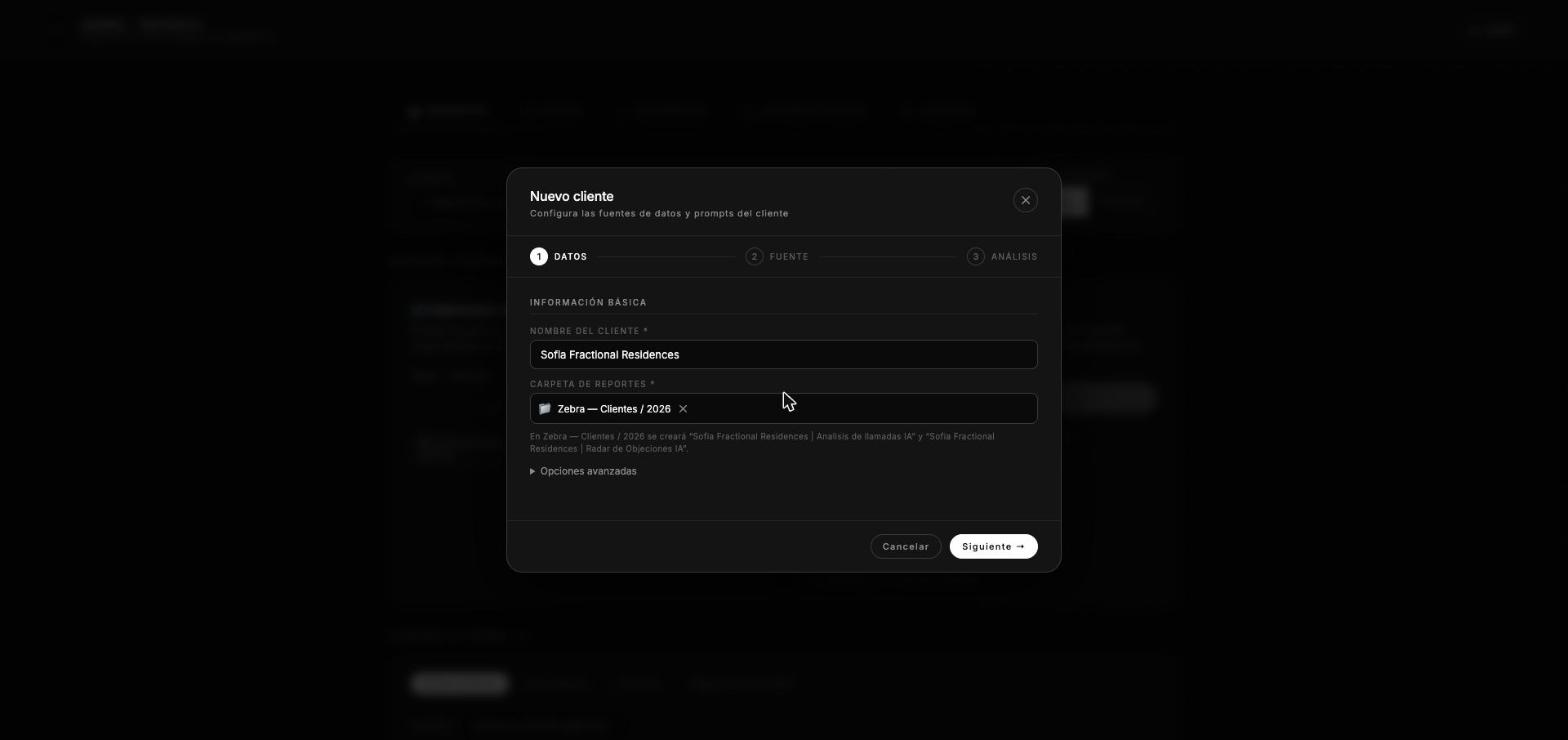
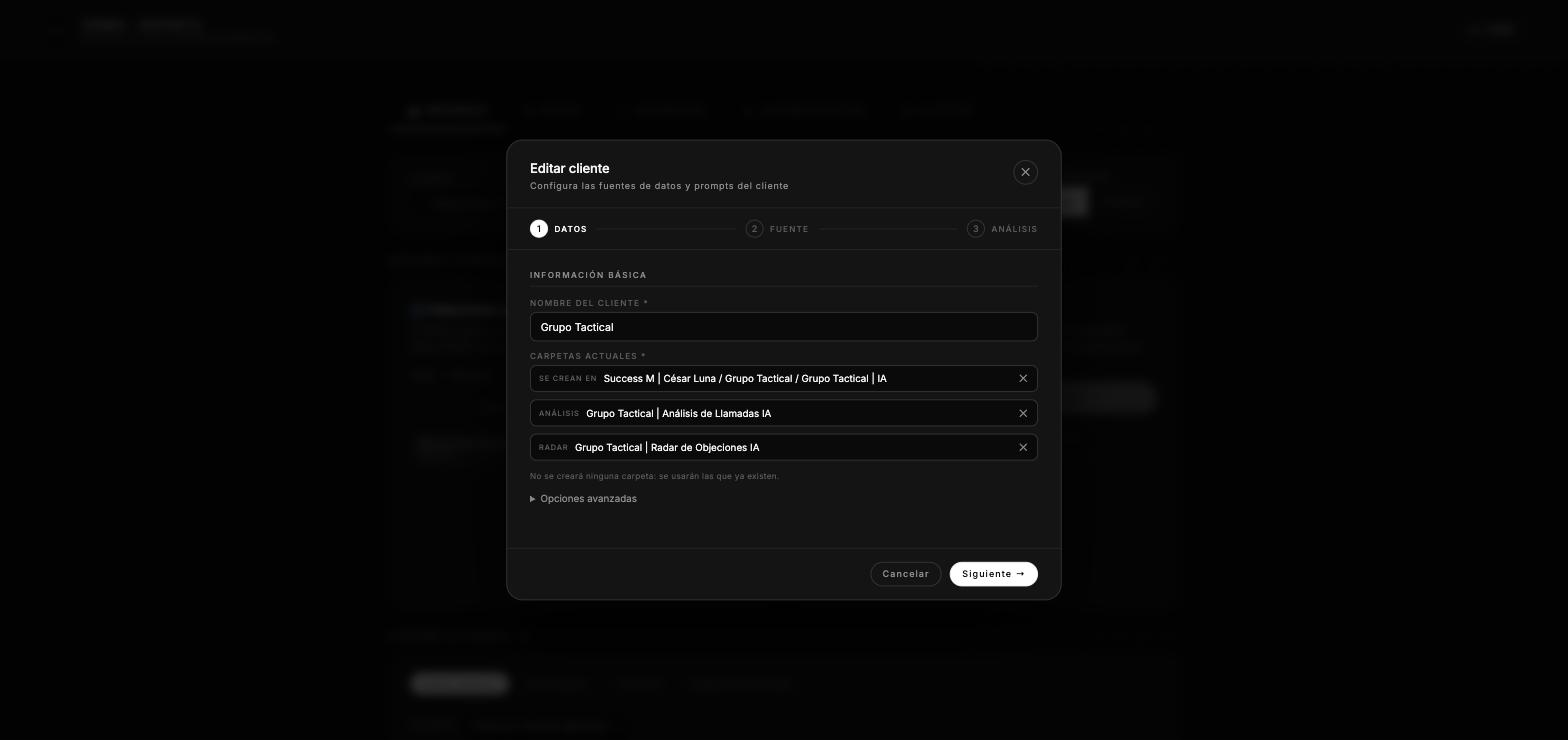
Agrupar las dos carpetas del cliente en el paso Datos
Las carpetas de analisis y de Radar son hermanas dentro de la misma carpeta
madre, asi que ahora se ven y se gestionan juntas en vez de estar repartidas
entre el paso 1 y el paso 3.

- Paso 1: la seccion pasa a llamarse "Carpetas actuales" y muestra las dos con
  su nombre real (ANALISIS / RADAR) mas la ubicacion. La X de cada una la
  suelta y deja un campo para pegar el link de otra que ya exista.
- Paso 3: se quitan "Carpeta Drive de Radar" y "Carpeta de respaldo Radar".
  El sidecar del comparativo usa la carpeta del Radar, que es lo que el
  backend ya hacia cuando ese campo estaba vacio. El dato guardado no se
  pierde: el update fusiona con lo existente.
- Revision: la fila lista ambas carpetas y conjuga segun el caso ("Se usaran
  las carpetas existentes" / "Se crearan en ..." / las dos cosas).

radar_folder_id pasa a viajar siempre y no solo con el Radar activado: al
mudarse el campo al paso 1, atarlo al toggle habria perdido la carpeta al
guardar con el Radar apagado.

diff --git a/index.html b/index.html
@@ -823,21 +823,28 @@
           <input class="form-control" id="cf-name" placeholder="Ej. Empresa XYZ" oninput="_wizOnNameInput()">
         </div>
         <div class="form-group">
-          <label class="form-label">Carpeta de reportes *</label>
+          <label class="form-label">Carpetas actuales *</label>
           <div class="drive-chip" id="cf-drive-chip">
-            <span class="chip-k">Se crea en</span><span id="cf-drive-chip-path"></span>
+            <span class="chip-k">Se crean en</span><span id="cf-drive-chip-path"></span>
             <button type="button" class="drive-chip-x" onclick="_dpClear()" title="Quitar ubicación">✕</button>
           </div>
           <div class="drive-chip" id="cf-folder-name-chip">
-            <span class="chip-k">Carpeta actual</span><span id="cf-folder-name-text"></span>
+            <span class="chip-k">Análisis</span><span id="cf-folder-name-text"></span>
             <button type="button" class="drive-chip-x" onclick="_clearFolderName()" title="Usar otra carpeta">✕</button>
           </div>
           <div style="display:flex; gap:8px; align-items:center;" id="cf-folder-row">
-            <input class="form-control" id="cf-folder-id" placeholder="Se crea sola al elegir la ubicación" style="flex:1 1 auto; min-width:0;">
+            <input class="form-control" id="cf-folder-id" placeholder="Análisis — se crea sola al elegir la ubicación" style="flex:1 1 auto; min-width:0;">
             <button type="button" class="btn-sm btn-sm-cancel" onclick="openDrivePicker()" style="white-space:nowrap;">📁&nbsp; Elegir ubicación</button>
           </div>
+          <div class="drive-chip" id="cf-radar-name-chip">
+            <span class="chip-k">Radar</span><span id="cf-radar-name-text"></span>
+            <button type="button" class="drive-chip-x" onclick="_clearRadarFolder()" title="Usar otra carpeta">✕</button>
+          </div>
+          <div style="display:none;" id="cf-radar-row">
+            <input class="form-control" id="cf-radar-folder-id" placeholder="Radar — pega el link si ya existe en otro sitio">
+          </div>
           <input type="hidden" id="cf-parent-folder-id">
-          <div class="form-hint" id="cf-folder-location-hint">Elige dónde crearla en la Unidad Compartida. También puedes pegar el link de una carpeta que ya exista.</div>
+          <div class="form-hint" id="cf-folder-location-hint">Elige dónde crearlas en la Unidad Compartida. También puedes pegar el link de las que ya existan.</div>
         </div>
         <details class="form-group" style="margin-top:4px;">
           <summary style="cursor:pointer; font-size:12px; color:var(--muted);">Opciones avanzadas</summary>
@@ -955,18 +962,7 @@
           <label class="form-label">Prompt del Radar</label>
           <textarea class="form-textarea" id="cf-prompt-radar" rows="6" placeholder="Contexto del negocio para el Radar (giro, tipo de llamada, objetivo). Si lo dejas vacío, se usa un prompt genérico."></textarea>
         </div>
-        <div class="form-grid-2">
-          <div class="form-group">
-            <label class="form-label">Carpeta Drive de Radar</label>
-            <input class="form-control" id="cf-radar-folder-id" placeholder="Pega el link de la carpeta">
-            <div class="form-hint" id="cf-radar-folder-hint">Se crea sola al elegir la ubicación arriba. Pega un link solo si quieres otra carpeta.</div>
-          </div>
-          <div class="form-group">
-            <label class="form-label">Carpeta de respaldo Radar</label>
-            <input class="form-control" id="cf-radar-sidecar-folder-id" placeholder="Opcional — pega el link">
-            <div class="form-hint">Para el sidecar del comparativo. Si se deja vacía, se usa la de Radar.</div>
-          </div>
-        </div>
+        <div class="form-hint" style="margin:-4px 0 12px;">Su carpeta de Drive se gestiona en el paso 1, junto a la de análisis. El respaldo del comparativo vive dentro de esa misma carpeta.</div>
         <div class="form-grid-2">
           <div class="form-group">
             <label class="form-label">Duración mínima (segundos)</label>
@@ -3289,7 +3285,7 @@
       'cf-sheet-name','cf-col-fecha','cf-col-asesor','cf-col-calif','cf-col-analisis',
       'cf-col-transcripcion','cf-col-duracion','cf-col-record','cf-excluded-phrases','cf-max-chars',
       'cf-prompt-individual','cf-prompt-general',
-      'cf-prompt-radar','cf-radar-folder-id','cf-radar-sidecar-folder-id','cf-radar-min-dur','cf-radar-max-chars'];
+      'cf-prompt-radar','cf-radar-folder-id','cf-radar-min-dur','cf-radar-max-chars'];
     fields.forEach(fid => { const el = document.getElementById(fid); if(el) el.value = ''; });
     document.getElementById('cf-max-chars').value = '3000';
     // Reset del wizard: paso 1, sin ubicación, ambas carpetas marcadas,
@@ -3297,8 +3293,7 @@
     document.getElementById('cf-create-reports').checked = true;
     document.getElementById('cf-create-radar').checked   = true;
     document.getElementById('cf-folder-name-chip').classList.remove('show');
-    document.getElementById('cf-radar-folder-hint').textContent =
-      'Se crea sola al elegir la ubicación arriba. Pega un link solo si quieres otra carpeta.';
+    document.getElementById('cf-radar-name-chip').classList.remove('show');
     document.getElementById('cf-radar-on').checked = false;
     _wizRadarToggle();
     _dpApplyLocation('', '');
@@ -3348,7 +3343,6 @@
         document.getElementById('cf-prompt-general').value   = c.prompt_general || '';
         document.getElementById('cf-prompt-radar').value             = c.prompt_radar || '';
         document.getElementById('cf-radar-folder-id').value          = c.radar_folder_id || '';
-        document.getElementById('cf-radar-sidecar-folder-id').value  = c.radar_sidecar_folder_id || '';
         document.getElementById('cf-radar-min-dur').value            = c.radar_min_duration_seconds || '';
         document.getElementById('cf-radar-max-chars').value          = c.radar_transcripcion_max_chars || '';
         // Radar encendido si el cliente ya tiene algo configurado
@@ -3653,19 +3647,22 @@
     document.getElementById('cf-create-reports-label').textContent = `${nombre} | Analisis de llamadas IA`;
     document.getElementById('cf-create-radar-label').textContent   = `${nombre} | Radar de Objeciones IA`;
 
-    // El campo de pegar link sobra si la app va a crear la carpeta, o si ya
-    // estamos mostrando el nombre de la que el cliente tiene.
-    const laCrea   = !!parent && reports;
-    const conNombre = document.getElementById('cf-folder-name-chip').classList.contains('show');
-    document.getElementById('cf-folder-row').style.display = (laCrea || conNombre) ? 'none' : 'flex';
-    if (laCrea) {   // deja de ser obligatorio: quita el rojo si lo tenía
+    // Cada carpeta muestra una de tres cosas: su nombre (ya existe), nada (la
+    // va a crear la app), o el campo para pegar el link.
+    const creaAnalisis = !!parent && reports;
+    const creaRadar    = !!parent && radar;
+    const conAnalisis  = document.getElementById('cf-folder-name-chip').classList.contains('show');
+    const conRadar     = document.getElementById('cf-radar-name-chip').classList.contains('show');
+    document.getElementById('cf-folder-row').style.display = (creaAnalisis || conAnalisis) ? 'none' : 'flex';
+    document.getElementById('cf-radar-row').style.display  = (creaRadar || conRadar) ? 'none' : 'block';
+    if (creaAnalisis) {   // deja de ser obligatorio: quita el rojo si lo tenía
       const f = document.getElementById('cf-folder-id');
       f.classList.remove('field-error');
       f.closest('.form-group')?.querySelector('.form-label')?.classList.remove('field-error');
     }
 
     if (!parent) {
-      hint.textContent = 'Elige dónde crearla en la Unidad Compartida. También puedes pegar el link de una carpeta que ya exista.';
+      hint.textContent = 'Elige dónde crearlas en la Unidad Compartida. También puedes pegar el link de las que ya existan.';
       return;
     }
     const nuevas = [];
@@ -3673,7 +3670,7 @@
     if (radar)   nuevas.push(`“${nombre} | Radar de Objeciones IA”`);
     hint.textContent = nuevas.length
       ? `En ${path || 'la ubicación elegida'} se creará${nuevas.length > 1 ? 'n' : ''}: ${nuevas.join(' y ')}.`
-      : 'No se creará ninguna carpeta. Pega el link de la carpeta de reportes que ya existe.';
+      : 'No se creará ninguna carpeta: se usarán las que ya existen.';
   }
 
   function _wizFiltersSummary() {
@@ -3708,10 +3705,14 @@
     return hits;
   }
 
-  // Nombre resuelto de la carpeta de reportes; si Drive no lo dio, el ID.
+  // Nombre resuelto de cada carpeta; si Drive no lo dio, el ID.
   function _folderNameOrId() {
-    const nombre = document.getElementById('cf-folder-name-text').textContent;
-    return nombre || document.getElementById('cf-folder-id').value.trim();
+    return document.getElementById('cf-folder-name-text').textContent
+        || document.getElementById('cf-folder-id').value.trim();
+  }
+  function _radarNameOrId() {
+    return document.getElementById('cf-radar-name-text').textContent
+        || document.getElementById('cf-radar-folder-id').value.trim();
   }
 
   // Resumen del paso 3: qué se va a crear, con los nombres reales.
@@ -3722,28 +3723,35 @@
     const path   = document.getElementById('cf-drive-chip-path').textContent;
     const radarOn = document.getElementById('cf-radar-on').checked;
 
-    const elige = _wizFolderChoice();
-    let carpetas;
-    if (g('cf-parent-folder-id') && (elige.reports || elige.radar)) {
-      const n = _esc(nombre || 'Cliente');
-      carpetas = `${_esc(path || 'Ubicación elegida')} /`
-        + (elige.reports ? `<br>📁 ${n} | Analisis de llamadas IA` : '')
-        + (elige.radar   ? `<br>📁 ${n} | Radar de Objeciones IA` : '');
-      if (!elige.reports && g('cf-folder-id')) {
-        carpetas += `<br>Reportes: ${_esc(_folderNameOrId())}`;
-      }
-    } else if (g('cf-folder-id')) {
-      carpetas = `Se usará la carpeta existente: ${_esc(_folderNameOrId())}`;
-    } else {
-      carpetas = miss('Sin ubicación elegida');
+    // Las dos carpetas juntas, separando lo que se crea de lo que ya existe.
+    const elige  = _wizFolderChoice();
+    const parent = g('cf-parent-folder-id');
+    const n      = _esc(nombre || 'Cliente');
+    const nuevas = [], existentes = [];
+
+    if (parent && elige.reports) nuevas.push(`${n} | Analisis de llamadas IA`);
+    else if (g('cf-folder-id'))  existentes.push(_esc(_folderNameOrId()));
+
+    if (parent && elige.radar)         nuevas.push(`${n} | Radar de Objeciones IA`);
+    else if (g('cf-radar-folder-id'))  existentes.push(_esc(_radarNameOrId()));
+
+    const bloques = [];
+    if (existentes.length) {
+      bloques.push(`Se usará${existentes.length > 1 ? 'n' : ''} ${existentes.length > 1 ? 'las carpetas existentes' : 'la carpeta existente'}:`
+        + existentes.map(c => `<br>📁 ${c}`).join(''));
     }
+    if (nuevas.length) {
+      bloques.push(`Se creará${nuevas.length > 1 ? 'n' : ''} en ${_esc(path || 'la ubicación elegida')}:`
+        + nuevas.map(c => `<br>📁 ${c}`).join(''));
+    }
+    const carpetas = bloques.length ? bloques.join('<br><br>') : miss('Sin ubicación elegida');
 
     const obligatorias = ['cf-col-fecha','cf-col-asesor','cf-col-calif','cf-col-analisis','cf-col-transcripcion'];
     const mapeadas = obligatorias.filter(id => g(id)).length;
 
     const rows = [
       ['Cliente',     nombre ? _esc(nombre) : miss('Sin nombre')],
-      ['Se crearán',  carpetas],
+      ['Carpetas',    carpetas],
       ['Fuente',      g('cf-spreadsheet-id')
                         ? `Hoja conectada · pestaña ${g('cf-sheet-name') ? _esc(g('cf-sheet-name')) : miss('sin elegir')}`
                         : miss('Sin hoja de Google')],
@@ -3829,6 +3837,18 @@
     _wizFolderHint();
   }
 
+  function _showRadarFolderName(name) {
+    document.getElementById('cf-radar-name-text').textContent = name;
+    document.getElementById('cf-radar-name-chip').classList.add('show');
+    _wizFolderHint();
+  }
+
+  function _clearRadarFolder() {
+    document.getElementById('cf-radar-name-chip').classList.remove('show');
+    document.getElementById('cf-radar-folder-id').value = '';
+    _wizFolderHint();
+  }
+
   // Rellena chips y pistas con los nombres reales. Silencioso: si Drive no
   // responde, el formulario sigue funcionando con los IDs.
   async function _fillFolderNames(c) {
@@ -3838,9 +3858,8 @@
       const { name, path } = info[c.parent_folder_id];
       document.getElementById('cf-drive-chip-path').textContent = path ? `${path} / ${name}` : name;
     }
-    const rHint = document.getElementById('cf-radar-folder-hint');
-    if (c.radar_folder_id && info[c.radar_folder_id] && rHint) {
-      rHint.textContent = `Carpeta actual: ${info[c.radar_folder_id].name}`;
+    if (c.radar_folder_id && info[c.radar_folder_id]) {
+      _showRadarFolderName(info[c.radar_folder_id].name);
     }
     _wizFolderHint();
     if (_wizStep === 3) _wizSummary();
@@ -3912,18 +3931,19 @@
       prompt_general:          document.getElementById('cf-prompt-general').value.trim(),
     };
 
-    // ── Radar de Objeciones: solo si el toggle está encendido ────────────────
+    // La carpeta de Radar se gestiona en el paso 1, junto a la de análisis, así
+    // que viaja siempre: no depende de que el Radar esté activado.
+    const _radarFolder = document.getElementById('cf-radar-folder-id').value.trim();
+    if (_radarFolder) payload.radar_folder_id = _extractDriveFolderId(_radarFolder);
+
+    // ── Ajustes del Radar: solo si el toggle está encendido ──────────────────
     if (document.getElementById('cf-radar-on').checked) {
-    const _radarFolder  = document.getElementById('cf-radar-folder-id').value.trim();
-    const _radarSidecar = document.getElementById('cf-radar-sidecar-folder-id').value.trim();
-    const _radarPrompt  = document.getElementById('cf-prompt-radar').value.trim();
-    const _radarMinDur  = parseInt(document.getElementById('cf-radar-min-dur').value, 10);
-    const _radarMaxCh   = parseInt(document.getElementById('cf-radar-max-chars').value, 10);
-    if (_radarPrompt)  payload.prompt_radar = _radarPrompt;
-    if (_radarFolder)  payload.radar_folder_id = _extractDriveFolderId(_radarFolder);
-    if (_radarSidecar) payload.radar_sidecar_folder_id = _extractDriveFolderId(_radarSidecar);
-    if (!isNaN(_radarMinDur)) payload.radar_min_duration_seconds = _radarMinDur;
-    if (!isNaN(_radarMaxCh))  payload.radar_transcripcion_max_chars = _radarMaxCh;
+      const _radarPrompt = document.getElementById('cf-prompt-radar').value.trim();
+      const _radarMinDur = parseInt(document.getElementById('cf-radar-min-dur').value, 10);
+      const _radarMaxCh  = parseInt(document.getElementById('cf-radar-max-chars').value, 10);
+      if (_radarPrompt) payload.prompt_radar = _radarPrompt;
+      if (!isNaN(_radarMinDur)) payload.radar_min_duration_seconds = _radarMinDur;
+      if (!isNaN(_radarMaxCh))  payload.radar_transcripcion_max_chars = _radarMaxCh;
     }
 
     try {

diff --git a/docs/CAMPOS-NUEVO-CLIENTE.md b/docs/CAMPOS-NUEVO-CLIENTE.md
@@ -32,7 +32,10 @@ lugares, así que conviene escribirlo bien desde el principio:
 3. El identificador interno del cliente (`sofia_fractional_a3f9c1`), que ya no
    cambia aunque después le cambies el nombre.
 
-### Carpeta de reportes *
+### Carpetas actuales *
+
+Las **dos** carpetas del cliente se gestionan aquí, juntas: la de análisis y la
+de Radar. En Drive son hermanas, dentro de la misma carpeta madre.
 Dónde se guardan los PDFs que genera el sistema.
 
 **No hace falta crear nada a mano.** Pulsa **📁 Elegir ubicación**, navega por tus
@@ -60,13 +63,19 @@ directamente en el campo de texto y la app detecta el ID sola.
 > Si en el selector no aparece ninguna unidad, esa cuenta no es miembro de la
 > Unidad Compartida — es permiso, no un fallo de la app.
 
-La ubicación elegida queda visible como chip (`SE CREA EN  Material Clientes /
-Success M | Anakaren Marín ✕`), y debajo se lee exactamente qué carpetas se van
-a crear. La ✕ la quita si te equivocaste.
+Al editar un cliente ves su estado real de un vistazo, con **nombres**, no IDs:
 
-Al editar un cliente que ya tiene carpeta, aparece un segundo chip
-(`CARPETA ACTUAL  Sofia | Analisis de llamadas IA`) con el **nombre** de la
-carpeta, no su ID. La ✕ lo suelta si quieres apuntar a otra.
+```
+SE CREAN EN   Success M | César Luna / Grupo Tactical / Grupo Tactical | IA  ✕
+ANÁLISIS      Grupo Tactical | Análisis de Llamadas IA                       ✕
+RADAR         Grupo Tactical | Radar de Objeciones IA                        ✕
+```
+
+La ✕ de la ubicación la quita. La ✕ de cada carpeta la suelta y deja un campo
+para pegar el link de otra que ya exista en cualquier otro sitio de Drive.
+
+Si una carpeta no aparece, es que no existe todavía: la app la creará al
+guardar (o puedes pegar su link).
 
 ### Qué carpetas crear — en "Opciones avanzadas"
 
@@ -188,13 +197,15 @@ las llamadas y cómo se manejan. **Se corre sobre las transcripciones del perío
 no en tiempo real durante la llamada.**
 
 Está detrás de un interruptor: si el cliente no lo usa, déjalo apagado y sus
-cinco campos ni siquiera aparecen. Apagado, tampoco se crea su carpeta en Drive.
+campos ni siquiera aparecen.
+
+Su carpeta de Drive **no se configura aquí**: vive en el paso 1, junto a la de
+análisis. El sidecar del comparativo (`radar-YYYY-MM.json`) va dentro de esa
+misma carpeta.
 
 | Campo | Qué hace |
 |---|---|
 | **Prompt del Radar** | Contexto del negocio para este análisis: giro, tipo de llamada, qué se está vendiendo. Si lo dejas vacío se usa un prompt genérico que funciona, pero rinde bastante menos. |
-| **Carpeta Drive de Radar** | Dónde se guarda el PDF del Radar. Se crea sola al elegir la ubicación arriba (`{Cliente} \| Radar de Objeciones IA`); solo pega un link si la quieres en otro lado. |
-| **Carpeta de respaldo Radar** | Dónde va el sidecar del Radar (`radar-YYYY-MM.json`), que habilita el comparativo mes contra mes. Vacío = se usa la misma carpeta del Radar. |
 | **Duración mínima (segundos)** | Descarta llamadas más cortas que esto. Por defecto **200**. Una llamada de 30 segundos no tiene objeciones que analizar, solo mete ruido. Requiere tener configurada la columna de duración. |
 | **Máx. caracteres (Radar)** | Igual que el límite de arriba, pero para el Radar. Por defecto **8000**, más alto porque las objeciones suelen aparecer al final de la llamada. |
 
